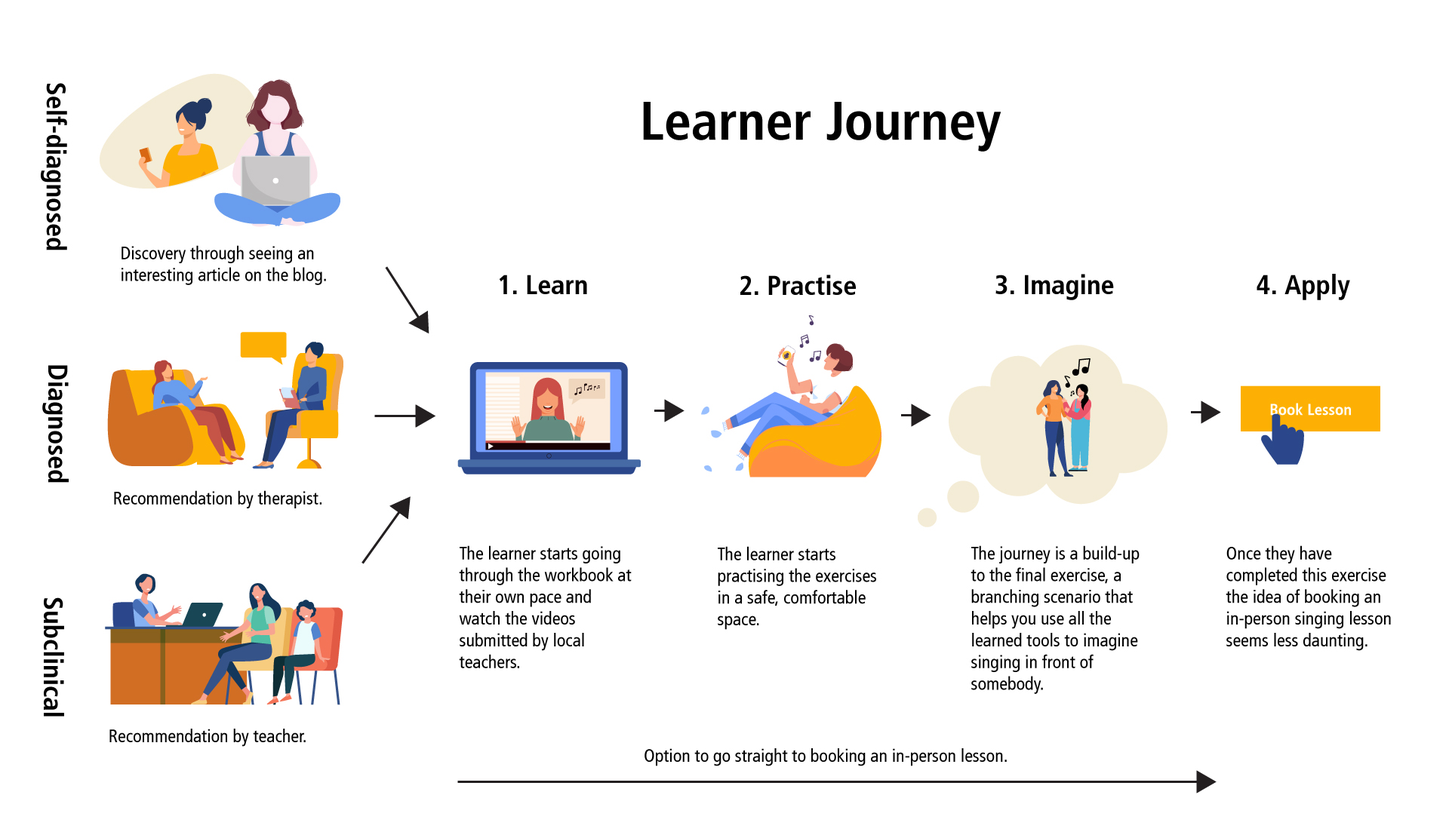
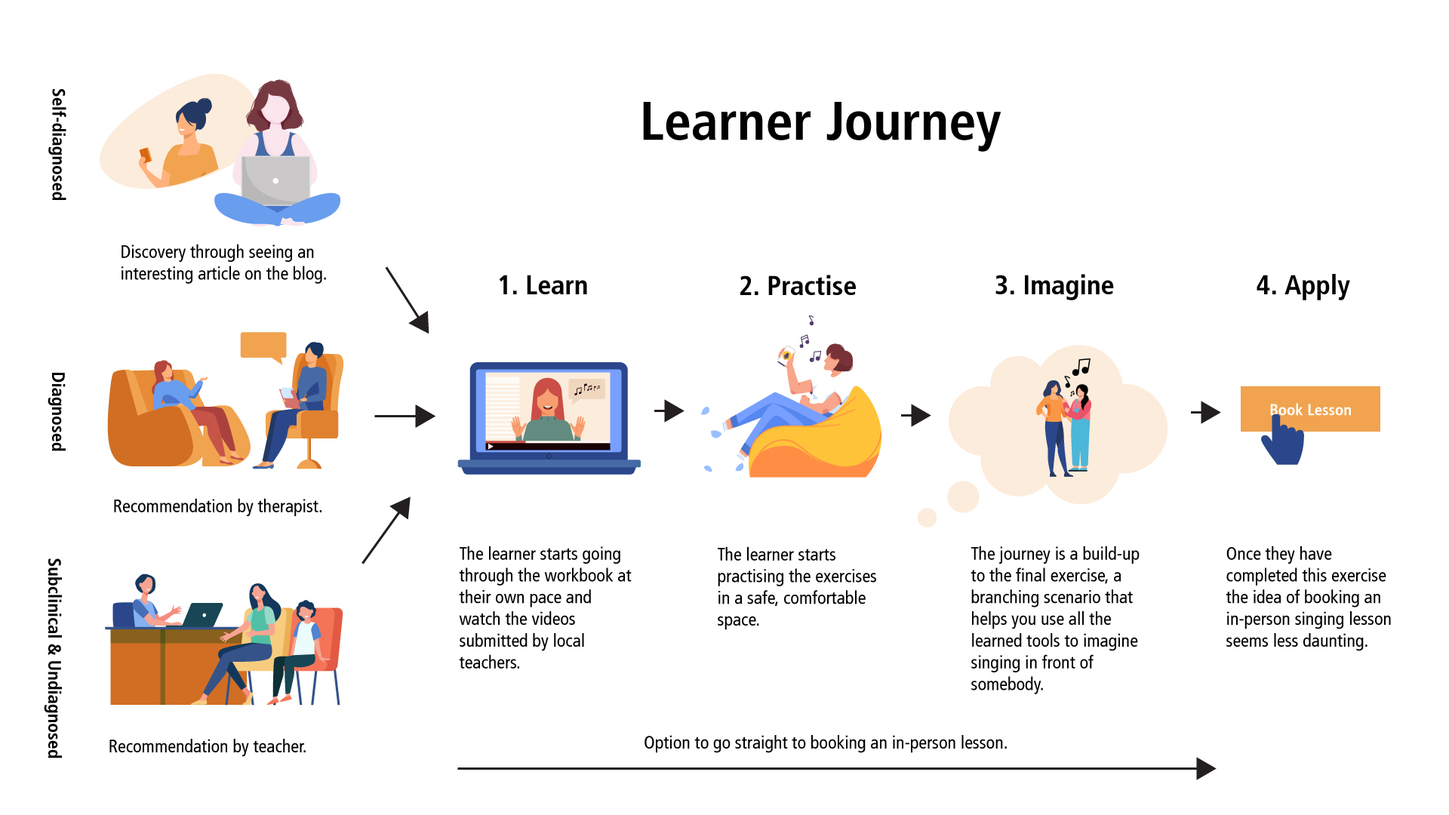
Copy
Update copy for mental health case study.

diff --git a/mental-health-lx.html b/mental-health-lx.html
@@ -61,7 +61,7 @@
 <body>
   <div class="container-fluid row g-0">
 
-    <div class="col-lg-6"> <img src="images/title-image.jpg" class="w-100 responsive-image pt-4" /></div>
+    <div class="col-lg-6"> <img src="images/singing-title-image.jpg" class="w-100 responsive-image pt-4" /></div>
     <div class="col-lg-6 my-auto">
       <h1 class="largefont text-center mx-4 pt-5 px-3">MENTAL HEALTH LX: DESIGNING A SINGING PLATFORM FOR PEOPLE WITH SOCIAL ANXIETY</h1>
     </div>
@@ -73,17 +73,17 @@
 
   <div class="col-lg-6 container-fluid mx-auto mt-lg-5 pt-lg-5 px-4 px-lg-0">
     <h3 class="mt-lg-5">Whether singing could be a therapeutic activity for individuals suffering from social anxiety was on my mind for some time. 
-        So in 2022, I made it the focus of an independent study project I completed as part of a User Centred Design course at Red & Yellow Creative School of Business.
+        So in 2022, I made it the focus of an independent study project I completed as part of a user-centred design course at Red & Yellow Creative School of Business.
     </h3>
-    To find out what studies have been conducted on the topic, the initial research phase consisted of baseline research and the second phase consisted of gathering qualitative insights from interviews and field research. First I tried to determine whether singing could help to reduce social anxiety, and what treatments exist for social anxiety and how they might relate to the process of learning to sing. 
+    To find out what studies have been conducted on the topic, I started with baseline research and then gathered qualitative insights from interviews and field research. First I tried to determine whether singing could help to reduce social anxiety, as well as what treatments exist for social anxiety and how they might relate to the process of learning to sing. 
     Then I looked into how my findings could be translated into an online format.
   </div>
 
   <div class="mx-auto py-5 g-lg-5 px-lg-5 mt-lg-5 row px-3">
     <div class="col-lg-6 p-lg-4">
       <h2>ROLE AND SCOPE</h2>
-      This was an individual project spanning from February to November 2022, completed in my own time alongside the full-time User Centred Design programme. 
-      Based on rigorous UX research, ideation processes and user testing, the expected end result was a high-fidelity interactive prototype designed through an iterative process. 
+      This was an individual project spanning from February to November 2022, completed in my own time alongside the full-time user-centred design programme. 
+      Based on rigorous UX research, ideation processes and user testing, the end result was a high-fidelity interactive prototype designed through an iterative process. 
       <br><br>
     </div>
     <div class="col-lg-4 offset-lg-2 my-auto p-lg-4">
@@ -105,8 +105,8 @@
   <div class="col-lg-6 p-lg-5 p-4 my-auto text-start">
     <h2>FIRSTLY, WHAT IS SOCIAL ANXIETY?</h2>
  Contrary to many people’s first impression, it is not simply shyness, introversion or a choice not to interact. 
-    It is a debilitating mental disorder characterised by an excessive fear of judgement, which results in masking one’s true self to others. According to the US-based National Social Anxiety Center, 
-    negative self-evaluation, maladaptive perfectionism and catastrophising thought patterns cause individuals with social anxiety to either avoid social situations completely or endure them through engaging in safety behaviours – such as avoiding eye contact, over-preparing conversations or drinking alcohol. Normal situations which are everyday for most people – such as asking your boss for leave, giving a class presentation or eating in public – feel like a performance to a harshly critical audience. 
+    It is a debilitating mental disorder characterised by an excessive fear of judgement that results in a masking of one’s true self to others. According to the US-based National Social Anxiety Center, 
+    negative self-evaluation, maladaptive perfectionism and catastrophising thought patterns cause individuals with social anxiety to either avoid social situations completely or endure them through engaging in safety behaviours – such as avoiding eye contact, over-preparing conversations or drinking alcohol. Normal situations which are everyday for most people – such as asking your boss for leave, giving a class presentation or eating in public – feel like performing in front of a highly critical audience. 
     These fears manifest physically in the form of sweating, blushing, trembling, heart racing or a complete inability to speak. 
   </div>
 </div>
@@ -123,14 +123,14 @@
         – such as being laughed at during a presentation, for instance. The trauma could range from small to big but what’s important is that, through avoidance, people with social anxiety never learn that social situations aren’t as terrifying as they think they are, leaving a lot of room for catastrophising and rumination.
         <br><br>
         <h2>AVAILABLE TREATMENTS</h2>
-        Exposure therapy, a form of cognitive behavioural therapy, is considered the most effective evidence-based treatment for social anxiety. It consists of identifying a fear hierarchy, and facing these fears, step-by-step, starting with the most approachable one. Before tackling the challenge head-on, it is useful to imagine the situation first and identify strategies for dealing with it. Replacing negative thought patterns with healthier ones, and finding realistic ways of dealing with a worst possible outcome is important. 
+        Exposure therapy, a form of cognitive behavioural therapy, is considered the most effective evidence-based treatment for social anxiety. It consists of identifying a fear hierarchy, and facing these fears, step-by-step, starting with the most managable one. Before tackling the challenge head-on, it is useful to imagine the situation first and identify strategies for dealing with it. Replacing negative thought patterns with healthier ones, and finding realistic ways of dealing with a worst possible outcome is important. 
 <br><br>
 If the challenge is to ask a stranger on the street for directions, the initial fear might express as: “Everyone is going to think I’m weird if I stumble over words.” This could be replaced with a more specific, realistic one, such as “The person I’m asking for directions might think I’m not well-spoken.” Then you would figure out how you could cope with the realistic worst-case outcome, and ask yourself if it would really be that bad or likely. Bit by bit, the more you face your fears and deal with them in a healthy manner, without safety behaviours, anxiety reduces over time. 
 <br><br>
-Although some human contact is important, studies have found that self-help for social anxiety is successful – at the very least it’s better than not receiving any help at all. A paper exploring design considerations for the Challenger App, mentions how learning about tools and coping strategies on your own and engaging in self-administered exposures has been found to reduce social anxiety.
+Although some human contact is important, studies have found that self-help for social anxiety is successful – at the very least it’s better than not receiving any help at all. For instance, a paper exploring design considerations for <i>The Challenger App</i> mentions how learning about tools and coping strategies on your own and engaging in self-administered exposures has been found to reduce social anxiety.
 <br><br>
 <h2>GETTING HELP</h2>
-Although social anxiety is highly treatable, around 80% to 95% of individuals suffering from SAD do not seek treatment and the average time until people seek treatment is 16 years. Beyond lack of knowledge about treatments and difficulties in accessing care, one of the main reasons is the nature of the disorder: individuals with social anxiety worry about what others might think if they are receiving help.
+According to the National Anxiety Center, social anxiety is highly treatable, but around 80% to 95% of individuals suffering from SAD do not seek treatment and the average time until people seek treatment is 16 years. Beyond lack of knowledge about treatments and difficulties in accessing care, one of the main reasons is the nature of the disorder: worrying what others might think if you are receiving help.
 <br><br>
 <h2>THE PROBLEM</h2>
 After my initial deep-dive into existing research on social anxiety, I identified the problem as following:
@@ -138,7 +138,7 @@ After my initial deep-dive into existing research on social anxiety, I identifie
 <h3>Individuals who suffer from social anxiety are afraid to reveal their true selves to others because of excessive fear of judgement. This results in avoidant behaviour and a difficulty to connect to others meaningfully. Despite not being able to function adequately, most individuals with social anxiety do not receive adequate help.</h3>
 <br><br>
 <h2>LEARNING TO SING</h2>
-Once I had a deeper understanding of what social anxiety is, I looked into the process of learning to sing, and its potential for self-exploration and acceptance. From doing some baseline research, as well as some qualitative research through speaking to three voice teachers, a music therapist, the head of psychiatry at Stellenbosch University, as well as Denise, whose choir experience helped her manage social anxiety in high school, the insights can be summarised as following:
+Once I had a better understanding of what social anxiety is, I looked into the process of learning to sing, and its potential for self-exploration and self-acceptance. From doing some baseline research, as well as some qualitative research through speaking to three voice teachers, a music therapist, the head of psychiatry at Stellenbosch University, as well as Denise, whose choir experience helped her manage social anxiety in high school, the insights can be summarised as following:
 <ol>
     <li>Singing has positive effects on self-esteem and social inclusion</li>
     <li>Voice work can teach you to become okay with taking risks and making mistakes</li>
@@ -149,12 +149,13 @@ Once I had a deeper understanding of what social anxiety is, I looked into the p
     <li>For it to be effective, the process should be modelled on graded exposure therapy</li>
     <li>Learning to sing is a process that doesn’t happen overnight, it’s unique to each individual and requires some willingness and dedication</li>
 </ol>
-One of the main themes that came up was that, if done in the right environment, without over-focusing on pitch or singing “perfectly”, and instead encouraging playfulness, improvisation and acceptance, singing has potential for overcoming the excessive fear of judgement that people with social anxiety suffer from. Here are some quotes from the interviews that illustrate this idea well.
+One of the main themes that came up was that, if done in the right environment, without over-focusing on pitch or singing “perfectly”, and instead encouraging playfulness, improvisation and acceptance, singing has potential for overcoming the excessive fear of judgement that people with social anxiety suffer from. Here are some quotes from the interviews I conducted that convey this idea.
     </div>
      <br><br>
         <div class="container-fluid col-lg-6 mx-auto px-4 px-lg-0">
           <div id="carouselExampleDark" class="carousel carousel-dark slide" data-bs-interval="0">
-            <div class="carousel-indicators p-5">
+            <div class="carousel-indicators p-5 mt-5">
+           
               <button type="button" data-bs-target="#carouselExampleDark" data-bs-slide-to="0" class="active" aria-current="true" aria-label="Slide 1"></button>
               <button type="button" data-bs-target="#carouselExampleDark" data-bs-slide-to="1" aria-label="Slide 2"></button>
               <button type="button" data-bs-target="#carouselExampleDark" data-bs-slide-to="2" aria-label="Slide 3"></button>
@@ -162,6 +163,7 @@ One of the main themes that came up was that, if done in the right environment, 
               <button type="button" data-bs-target="#carouselExampleDark" data-bs-slide-to="4" aria-label="Slide 5"></button>
               <button type="button" data-bs-target="#carouselExampleDark" data-bs-slide-to="5" aria-label="Slide 6"></button>
               <button type="button" data-bs-target="#carouselExampleDark" data-bs-slide-to="6" aria-label="Slide 7"></button>
+           
             </div>
             <div class="carousel-inner">
               <div class="carousel-item active">
@@ -185,7 +187,9 @@ One of the main themes that came up was that, if done in the right environment, 
               <div class="carousel-item">
                 <img src="images/quote-7.jpg" class="d-block w-100" alt="...">
               </div>
+
             </div>
+            <br><br>
             <button class="carousel-control-prev" type="button" data-bs-target="#carouselExampleDark" data-bs-slide="prev">
               <span class="carousel-control-prev-icon" aria-hidden="true"></span>
               <span class="visually-hidden">Previous</span>
@@ -198,17 +202,18 @@ One of the main themes that came up was that, if done in the right environment, 
 </div>
 <br>
 <br>
-  <div class="col-lg-10 mx-auto">
-    <img src="images/benefits-of-singing.jpg" class="responsive-image" />
+  <div class="col-lg-10 mx-auto text-center">
+    <img src="images/benefits-of-singing.jpg" class="responsive-image" /><br><br>
+    <small><i>An infographic I created to show insights from qualitative research</i></small>
   </div>
   <br><br>
 <div class="container-fluid col-lg-6 mx-auto px-4 px-lg-0">
     <h2>CHALLENGES</h2>
-    It was now clear to me that there was potential for singing to help with combatting social anxiety, but I still didn’t know how this could be implemented as a digital solution. Influenced by my background in e-learning design, the idea of an online course with CBT-inspired singing exercises was swimming around in my head. But because I’m not a singing or psychology expert, I wasn’t sure how I would be able to present this information in an authentic way. I was thinking about copyright issues, and also how to involve all the people I had gathered this information from. How could it benefit them as well as people with social anxiety?
+    It was now clear to me that there was potential for singing to help combat social anxiety, but I still didn’t know how this could be implemented as a digital solution. Influenced by my background in e-learning design, the idea of an online course with CBT-inspired singing exercises was swimming around in my head. But because I’m not a singing or mental health expert, I wasn’t sure how I would be able to present this information in an authentic way. I was thinking about copyright issues, and also how to involve all the people I had gathered this information from. How could it benefit them as well as people with social anxiety?
     <br><br>
-    Also, when talking to voice teachers, it became very obvious that – although they had all done some sort of digital teaching during Covid – this was not ideal. Realistic in-person feedback is essential for someone who’s learning to sing, especially if you have a tendency for catastrophic thinking. This way not only unhealthy voice production can be corrected, but the process can also be tailored through comforting guidance. At the same time, Denise told me that she believes that teaching singing digitally has benefits because “being in the physical presence of someone can be a lot” so starting to sing online would be beneficial for people struggling with social anxiety.
+    Also, when talking to voice teachers, it became very obvious that – although they had all done some sort of digital teaching during lockdown – this was not ideal. Realistic in-person feedback is essential for someone who’s learning to sing, especially if you have a tendency for catastrophic thinking. This way not only unhealthy voice production can be corrected, but the process can also be tailored through comforting guidance. At the same time, Denise told me that she believes that teaching singing digitally has benefits because “being in the physical presence of someone can be a lot” so starting to sing online would be beneficial for people struggling with social anxiety.
     <br><br>
-    To spark some more ideas, I decided to do some field research. I wanted to understand what a voice lesson with a specific focus on self-acceptance actually felt like. So in Germany, I took an experimental voice lesson with Jens Thoben, who I had interviewed previously, and in Cape Town, Catharine Hill, who has taught students with social anxiety purely for therapeutic purposes, agreed to give me a lesson. My initial idea was to do an observation, but I realised this would have been problematic due to a therapeutic singing lesson’s intimate nature.
+    To spark some more ideas, I decided to do some field research. I wanted to understand what a voice lesson with a specific focus on self-acceptance actually felt like. So in Germany, I took an experimental voice lesson with Jens Thoben, who I had interviewed previously, and in Cape Town, Catharine Hill, who has taught students with social anxiety purely for therapeutic purposes, agreed to give me a lesson. My initial idea was to do an observation, but I realised this would have been problematic due to the intimate nature of a therapeutic singing lesson.
     <br><br>
     The main insight from these lessons was that just having theoretical information is not enough. Repetition of interactive, practical exercises and taking on a role to distract your mind – such as “pretend you're an opera singer” – are important for unlearning nervous responses. But it was a random comment by Catharine that actually inspired the main idea for a solution. She mentioned how it would be really beneficial for people to know that singing lessons are not just for singers with prior experience because this would get vocal teachers more work. I now realised that the solution should be about giving people this empowering information – that singing has potential as a therapeutic activity for social anxiety – and then connect those who are interested to professionals who work in this context.
     <br><br>
@@ -220,9 +225,11 @@ One of the main themes that came up was that, if done in the right environment, 
   <div class="container-fluid col-lg-6 mx-auto pt-lg-5 mt-lg-5 px-4 px-lg-0">
     <br><br>
     <h2>THE SOLUTION</h2>
-    A platform for individuals who experience social anxiety to learn about coping strategies in the form of simple self-administered voice exercises, listening exercises and cognitive behavioural therapy-inspired exercises that build up to a final exposure: booking an in-person voice or music therapy session.
+    The solution I settled on: a platform for individuals who experience social anxiety to learn about coping strategies in the form of simple self-administered voice exercises, listening exercises and cognitive behavioural therapy-inspired exercises. These would build up to a final exposure: booking an in-person voice or music therapy session.
     <br><br>
-    These exercises would be contributed in video-format by voice teachers and music therapists. This would allow users to get an insight into how they work, and make an informed decision about who they feel most comfortable with. After learning about social anxiety and how exposure therapy in combination with cognitive restructuring can help you overcome it, and practising at home in your safe space, you apply your knowledge in an interactive branching scenario prompting you to imagine singing in front of someone. Once this is completed, you are presented with a directory of voice teachers and music therapists in your area, with an option to book a lesson if you are ready.
+    These exercises would be contributed in video-format by voice teachers and music therapists. Learners would get an insight into how they work, and be able to make an informed decision about who they feel most comfortable with. After learning about exposure therapy, and practising at home in a safe space, learners apply their knowledge in an interactive branching scenario prompting them to imagine singing in front of someone. Once this is completed, they are presented with a directory of voice teachers and music therapists in their area, with an option to book a lesson – if ready.
+    <br><br>
+    To sustain the platform, a percentage could be taken for each booking that is made through the site.
 
   </div>
   <br>
@@ -233,14 +240,14 @@ One of the main themes that came up was that, if done in the right environment, 
   <br><br>
   <div class="container-fluid col-lg-6 mx-auto px-4 px-lg-0">
     <h2>COMPETITIVE RESEARCH</h2>
-    An online search did not reveal many platforms that specifically speak to combatting social anxiety through singing. One platform that comes closest is Awaken your radiant voice. It offers a 7-week online course covering subjects such as ‘Learn to love and trust your voice’, ‘Sing more and find joy and freedom’ and ‘Social anxiety and managing the nervous system’. However, it costs $497, which would exclude a lot of people who need help. 
+    An online search did not reveal many platforms that specifically speak to combatting social anxiety through singing. One platform that comes closest is <i>Awaken your radiant voice</i>. It offers a 7-week online course covering subjects such as ‘Learn to love and trust your voice’, ‘Sing more and find joy and freedom’ and ‘Social anxiety and managing the nervous system’. However it costs $497, which would exclude a lot of people who need help. 
     <br><br>
-    No other singing apps focused on social anxiety specifically, but there were a few that were promising because they included the possibility of non-singers learning how to sing. Singdaptive is interesting because it offers a personalised video exchange with vocal teachers, making the experience interactive and tailored to one’s specific needs. In terms of the concept, tschzant is worth mentioning because of its focus on getting non-singers to sing for mental health reasons. It is also linked to larger community events such as digital choirs but the app's learning approach seems to be focused on ‘singing correctly’, which could be a stress factor if it triggers perfectionism.
+    No other singing apps focused on social anxiety specifically, but there were a few that were promising because they included the possibility of non-singers learning how to sing. <i>Singdaptive</i> is interesting because it offers a personalised video exchange with vocal teachers, making the experience interactive and tailored to one’s specific needs. In terms of the concept, <i>tschzant</i> is worth mentioning because of its focus on getting non-singers to sing for mental health reasons. It is also linked to larger community events such as digital choirs but the app's learning approach seems to be focused on ‘singing correctly’, which could be a stress factor if it triggers perfectionism.
     <br><br>
     <h2>THE TARGET MARKET</h2>
     Because avoiding talking to others is the nature of social anxiety, it was difficult to research the target market. I tried reaching out in social anxiety community networks asking for further interviews and survey participation. But to no avail, perhaps also because I had no budget to provide remuneration.
     <br><br>
-    I then decided to base my personas on information I had gathered through looking at social anxiety blogs, comments in community forums, and real-life stories I read about in the book <i>How to Be Yourself: Quiet Your Inner Critic and Rise Above Social Anxiety by Ellen Hendriksen</i>. It was also important to not base the target market on age because – although onset is usually in childhood or adolescence – many don’t seek treatment, so the information would be useful throughout different stages of life. The main uniting factor for the target market is the fear of judgement and I decided on three segments: undiagnosed and subclinical, self-diagnosed and diagnosed. Subclinical refers to people who suffer from the symptoms but may not qualify as having a disorder yet.
+    I then decided to base my personas on information I had gathered through looking at social anxiety blogs, comments in community forums, and real-life stories I read about in the book <i>How to Be Yourself: Quiet Your Inner Critic and Rise Above Social Anxiety</i> by Ellen Hendriksen. It was also important to not base the target market on age because – although onset is usually in childhood or adolescence – many don’t seek treatment, so the information would be useful throughout different stages of life. The main uniting factor for the target market is the fear of judgement and I decided on three segments: undiagnosed and subclinical, self-diagnosed and diagnosed. Subclinical refers to people who suffer from the symptoms but may not qualify as having a disorder yet.
 
 </div>
        
@@ -262,7 +269,7 @@ One of the main themes that came up was that, if done in the right environment, 
     <div class="col-lg-4"><div class="card mx-auto" style="width: 18rem;">
         <div class="card-body">
           <h5 class="card-title">Diagnosed</h5>
-          <p class="card-text">Is receiving treatment but is interested in further at-home practice and connection beyond the interaction with the therapist.</p>
+          <p class="card-text">Is receiving treatment but is interested in further at-home practice and connection beyond interacting with a therapist.</p>
         </div>
       </div></div></div>
     
@@ -291,7 +298,9 @@ One of the main themes that came up was that, if done in the right environment, 
             <div class="carousel-caption d-none d-md-block">
             </div>
           </div>
+         
         </div>
+        <br><br>
         <button class="carousel-control-prev" type="button" data-bs-target="#personaCarousel" data-bs-slide="prev">
           <span class="carousel-control-prev-icon" aria-hidden="true"></span>
           <span class="visually-hidden">Previous</span>
@@ -306,7 +315,7 @@ One of the main themes that came up was that, if done in the right environment, 
       <br><br>
       <div class="container-fluid col-lg-6 mx-auto px-4 px-lg-0">
         <h2>THEMATIC ANALYSIS</h2>
-        To figure out what the content surrounding the video exercises would be, and how to structure each section, I compared the typical process of learning to sing with the typical exposure therapy process, and conducted a thematic analysis of all the interview material. 
+        To figure out what the content surrounding the video exercises would be and how to structure each section, I compared the typical process of learning to sing with the typical exposure therapy process, and conducted a thematic analysis of all the interview material. 
       </div>
 
       <br><br>
@@ -315,7 +324,7 @@ One of the main themes that came up was that, if done in the right environment, 
       </div>
       <br><br>
       <div class="container-fluid col-lg-6 mx-auto px-4 px-lg-0">
-      Although they changed slightly throughout the process, the final section headings would be:
+      Although they changed slightly throughout the process, the final section headings based on the themes that came up in the interviews would be:
 <ol>
       <li>Social anxiety and the voice</li>
       <li>Techniques to relax the body</li>
@@ -383,6 +392,7 @@ Most of the navigation labels, such as ‘Blog’ or ‘Forum’, were self-expl
               </div>
             </div>
           </div>
+          <br><br>
           <button class="carousel-control-prev" type="button" data-bs-target="#treeCarousel" data-bs-slide="prev">
             <span class="carousel-control-prev-icon" aria-hidden="true"></span>
             <span class="visually-hidden">Previous</span>
@@ -393,8 +403,8 @@ Most of the navigation labels, such as ‘Blog’ or ‘Forum’, were self-expl
           </button>
         </div>       
   <br>
-  For the first question, 3 out of 6 participants got it right, meaning only 50% knew where to find the main items of the website. 
-  4 out of 6 answered the second question correctly. So I reconsidered the wording ‘Guide’ and ‘Directory’.
+  For the first question, three out of six participants got it right, meaning only 50% knew where to find the main items of the website. 
+  Four out of six answered the second question correctly. So I reconsidered the wording ‘Guide’ and ‘Directory’.
   <br><br>
   <h2>INFORMATION ARCHITECTURE</h2>    
   For the final information architecture, ‘Guide’ became ‘Interactive Workbook’ and ‘Directory’  became ‘Teachers and Music Therapists’. Because the main process is not called a course anymore, I also changed the wording of ‘Lessons’ to ‘Steps’.
@@ -431,20 +441,21 @@ Most of the navigation labels, such as ‘Blog’ or ‘Forum’, were self-expl
     When writing the copy, I started off describing what social anxiety is and called to mind a problem of how it is dealt with in society: it is not introversion or a choice to be reclusive, which obstructs access to help. Through inserting some personal experience, I hoped that this will further activate the content, making it relatable to the learner. 
     <br><br>
     I included sliders for demonstration activities, and text inputs for application activities, such as identifying your fears. I also included icons with a different colour background to signal different types of interaction.
+    The branching scenario prompting users to imagine singing in front of a voice teacher is a preparation for the final integration activity, to actually attend the in-person singing lesson.
     <br><br>
-    One of the challenges was to figure out how to recreate learning interactions using Figma. I had experience in writing and designing branching scenarios for pre-coded templates, such as H5P or Articulate Rise, but I had never programmed the interactivity myself. It turned out to be easy enough though using Figma’s prototyping options. The branching scenario prompting users to imagine singing in front of a voice teacher can be seen as a preparation to the final integration activity, to actually attend the in-person singing lesson.
+    One of the challenges was to figure out how to recreate learning interactions using Figma. I had experience in writing and designing branching scenarios for pre-coded templates, such as H5P or Articulate Rise, but I had never programmed the interactivity myself. It turned out to be easy enough though using Figma’s prototyping options. 
     <br><br>
     <h2>USABILITY TESTING</h2>
-    Once the content of the high-fidelity prototype was largely in place (I had written the copy, created infographics, sourced some images, inserted screenshots as examples of the videos, and the branching scenario was functional), I conducted some usability testing with three participants. The goal was to figure out what journey they would take on the platform and if the last step, to book a voice or music therapy session, seemed natural to them. All participants had completed an online course before, meaning that they would be familiar with popular e-learning conventions.
+    Once the content of the high-fidelity prototype was largely in place (I had written the copy, created infographics, sourced some images, inserted screenshots as examples of the videos, and the branching scenario was functional), I conducted some usability testing with three participants. The goal was to figure out what journey they would take on the platform and if the last step, to book a voice or music therapy session, seemed natural to them. All participants had completed an online course before, meaning that they would be familiar with established e-learning conventions.
     <br><br>
-    I asked them to complete the following tasks and made it clear that they don’t have to read everything within the workbook, because normally this might be a week or day-long process.
+    I asked them to complete the following tasks and made it clear that they don’t have to read everything within the workbook, because normally this would be a longer process with breaks in-between.
     <ol>
         <li>Have a quick look at the homepage. What do you think it’s about?</li>
         <li>Now you can have a bit more of a look, scroll around and then tell me what you think the main purpose is.</li>
         <li>Follow the journey you’re most interested in.</li>
-        <li>[When they get to the last screen] What would the next natural step be for you?</li>
+        <li>[When they get to the last screen] What would you want to do next?</li>
     </ol>
-    Most of the participants understood what the site was about after just looking at it for a few seconds, although for one participant it wasn’t immediately clear that it was about singing specifically. Connecting art or music teachers to students was mentioned, and I realised this may have been because of the navigation label, ‘Teachers and Music Therapists’. I changed it to ‘Voice Teachers & Music Therapists’ to make it more specific. 
+    Most of the participants understood what the site was about after just looking at it for a few seconds, although for one participant it wasn’t immediately clear that it was about singing specifically. Connecting art or music teachers to students was mentioned, and  – after asking a follow-up question – I realised this was because of the navigation label, ‘Teachers & Music Therapists’. I changed it to ‘Voice Teachers & Music Therapists’ to make it more specific. 
     <br><br>
     Further improvements that I made based on the usability testing:
   </div>
@@ -456,7 +467,7 @@ Most of the navigation labels, such as ‘Blog’ or ‘Forum’, were self-expl
     <h2>TOUCHPOINTS</h2>
     I decided on <i>Creating sounds from inner space – an interactive workbook</i> as a name for the workbook and one of the main ways of finding it would be through relatable articles on the blog. 
     <br><br><b>MIA's JOURNEY</b><br>
-    Mia, the subclinical and undiagnosed persona, might find it because she is scrolling through social media hoping for answers. She wants to understand why she feels so nervous around people. She knows how she feels but doesn’t have the right language to describe her symptoms yet. Seeing the title of a blog article using words that describe how she feels piques her interest. Once she clicks the article, she reads an uplifting story she can relate to, encouraging her to have a look around the website. In the forum, she sees people talking about what she is going through. Surprised but relieved that she is not alone, she decides to go through the workbook. 
+    Mia, the subclinical and undiagnosed persona, might find the platform because she is scrolling through social media hoping for answers. She wants to understand why she gets so nervous around people. Although she knows how she feels, she doesn’t have the right language to describe her symptoms yet. So seeing the title of a blog article using words that describe what she's struggling with grabs her attention. Once she clicks the article, she reads an uplifting story she can relate to, encouraging her to have a look around the website. In the forum, she sees people talking about what she is going through. Surprised but relieved that she is not alone, she decides to go through the workbook. 
     <br><br>
   
   </div>
@@ -477,9 +488,8 @@ Most of the navigation labels, such as ‘Blog’ or ‘Forum’, were self-expl
     Further ways of reaching the workbook could be Social Anxiety Support Forums on social media, referrals by therapists as add-on activities and recommendations at schools. Another promising channel could be social prescribing – a concept which has been rolled out in Ireland, the UK and the Netherlands. Health professionals, such as GPs, prescribe non-medical activities for patients suffering from mental health issues such as isolation, depression and anxiety.
     <br><br>
     <h2>THE WORKBOOK</h2>
-    [insert GIF]
     The full interactive prototype can be viewed <a class="pointer links" href="https://www.figma.com/proto/bvXwo6fDuNa4ISGSV2Mgr0/independent-study---high-fidelty?node-id=1%3A2&scaling=min-zoom&page-id=0%3A1&starting-point-node-id=1%3A2" target="_blank"><b>here</b></a>. 
-    Below are some screenshots with examples of the exercises.
+    Below are some screenshots with examples of exercises.
     <br><br>
     <b>EXERCISES TO PRACTISE AT HOME</b>
     <br><br>
@@ -499,7 +509,7 @@ Most of the navigation labels, such as ‘Blog’ or ‘Forum’, were self-expl
   <br><br>
   <div class="container-fluid col-lg-6 mx-auto px-4 px-lg-0">
     <b>BRANCHING SCENARIO</b><br>
-    The preparation for the final exposure is a branching scenario that prompts you to imagine you are taking part in a singing lesson, 
+    The preparation for the final exposure is a branching scenario. It prompts you to imagine being in a singing lesson, 
     and remember the cognitive restructuring questions to disarm your anxious thoughts. Once you have completed it, you are shown a directory of local professionals you can book a lesson with.
   </div><br><br>
   <div class="col-lg-10 mx-auto">
@@ -518,18 +528,18 @@ Most of the navigation labels, such as ‘Blog’ or ‘Forum’, were self-expl
   <br><br>
   <div class="container-fluid col-lg-6 mx-auto px-4 px-lg-0">
   <h2>NEXT STEPS</h2>
-  I would like to get further feedback on the learner journey from voice teachers, but also from people who suffer from social anxiety. Because going through the workbook is an intimate and longer process, I would like to give them the opportunity to do this in their own time, and then get their feedback afterwards. The main objective would be to see how learners feel after they have engaged with the content more in-depth.
+  I would like to get further feedback on the learner journey from voice teachers, but also from people who suffer from social anxiety. Because going through the workbook is an intimate and longer process, I would like to give them the opportunity to do this in their own time, and ask them some questions afterwards. The main objective would be to see how learners feel after they have engaged with the content more in-depth.
   <br><br>
-  I also plan to reach out to more voice teachers and music therapists and see if they would be interested in submitting exercises, and look into producing quality videos with decent audio.
+  I also plan to reach out to more voice teachers and music therapists to see if they would be interested in submitting exercises, and look into producing quality videos with decent audio.
   <br><br>
-  Lastly, I intend to apply my web development skills and code the front end of the platform. 
+  Lastly, I intend to use my web development skills to code the front end of the platform. 
 <br><br>
-<h2>HOW IT WILL PROVIDE VALUE</h2>
+<h2>THE VALUE PROPOSITION</h2>
 Combining the need for access to therapy, a need for an inclusive social anxiety platform, and a need to expand the customer base for voice teachers, a singing for social anxiety platform could be a constructive way of dealing with a societal problem as well as an economic problem without exploitation. Although a percentage will be taken, voice teachers don’t have much to lose because they only pay once a booking is actually made, and site visitors will receive useful information, even if they don’t book a lesson.
 <br><br>
 Not only will it connect voice teachers to beginner singers interested in voice work’s therapeutic value, but it will also introduce a relatively unexplored concept to the wider public. The specific benefits of singing to overcome social anxiety often make sense to people, but have not been researched in-depth – available studies are often focused on passive music therapy for general anxiety disorders and depression.
 <br><br>
-There is much to explore when it comes to using voice work – an expression of what literally and figuratively comes straight from inside of you – to overcome intense fears of judgement associated with social anxiety, and this platform could be a stepping stone.
+There is a lot to explore when it comes to using voice work – an expression of what literally and figuratively comes straight from inside of you – to overcome intense fears of judgement associated with social anxiety, and this platform could be a stepping stone.
   </div>
   <br><br>
   <!--FOOTER-->

diff --git a/index.html b/index.html
@@ -64,7 +64,7 @@
   <div class="container-fluid" id="background">
     <div class="title-container">
       <h1 class="largefont fw-bold">Hi! I'm Christine.<br>
-        I do Web Development, <br>eLearning and UX Design.</h1>
+        I do web development, <br>e-learning and UX design.</h1>
       <a class="mx-auto d-block grow" href="#portfolio">
         <i class="bi bi-caret-down fw-bold fs-1 change-colour"></i></a>
     </div>
@@ -100,7 +100,7 @@
       </a>
       <a class="pointer" href="frontend-store.html">
         <h3>Frontend store using Vue CLI</h3>
-        <p class="mb-4">An eCommerce site with shopping cart for a fake second-hand clothing retailer. Built with the
+        <p class="mb-4">An e-commerce site with shopping cart for a fake second-hand clothing retailer. Built with the
           JavaScript
           framework Vue CLI and styled with Bootstrap.</p>
       </a>
@@ -150,8 +150,8 @@
           <div class="image"><img src="images/elearning.png" class="img-fluid"></div>
 
           <div class="info">
-            <a class="fw-bold fs-4 product-links modal-btn-2 pointer">
-              <div class="title">eLearning Design </div>
+            <a class="fs-4 product-links modal-btn-2 pointer">
+              <div class="title keeptogether">E-LEARNING <br>DESIGN </div>
              
           </div></a>
 
@@ -165,8 +165,8 @@
           <div class="image"><img src="images/ux-design-2.png" class="img-fluid"></div>
 
           <div class="info">
-            <a class="fw-bold fs-4 product-links modal-btn-3 pointer">
-              <div class="title">UX Design</div>
+            <a class="fs-4 product-links modal-btn-3 pointer">
+              <div class="title">UX DESIGN</div>
           </div></a>
 
         </div>
@@ -179,8 +179,8 @@
           <div class="image"><img src="images/frontend.png" class="img-fluid"></div>
 
           <div class="info">
-            <a class="fw-bold fs-4 product-links modal-btn-4 pointer">
-              <div class="title">Frontend Development</div>
+            <a class="fs-4 product-links modal-btn-4 pointer">
+              <div class="title">FRONTEND DEVELOPMENT</div>
           </div></a>
 
         </div>
@@ -193,8 +193,8 @@
           <div class="image"><img src="images/backend.png" class="img-fluid"></div>
 
           <div class="info">
-            <a class="fw-bold fs-4 product-links modal-btn-5 pointer">
-              <div class="title">Backend Development</div>
+            <a class="fs-4 product-links modal-btn-5 pointer">
+              <div class="title">BACKEND DEVELOPMENT</div>
           </div></a>
 
         </div>
@@ -278,8 +278,8 @@
       <div class="container white p-sm-4 mb-4">
 
         <div class="product_description mt-3 p-lg-4">
-          <h2 class="product_title mb-3 pt-4 fw-bold">ELEARNING DESIGN</h2>
-          Since mid-2020, I have been assisting an eLearning designer on a freelance
+          <h2 class="product_title mb-3 pt-4 fw-bold">E-LEARNING DESIGN</h2>
+          Since mid-2020, I have been assisting an e-learning designer on a freelance
           basis. We develop courses in Moodle based on learning material submitted by SMEs, which includes organising
           the content, creating layouts, designing infographics in Adobe Illustrator and Articulate Storyline, and
           implementing H5P learning interactions, such as branching scenarios, quizzes and hotspots. 
@@ -302,7 +302,7 @@
         
         <div class="product_description mt-3 p-lg-4">
           <h2 class="product_title mb-3 pt-4 fw-bold">UX DESIGN</h2>
-          I am currently completing an Advanced Diploma in User-Centred Design at Red & Yellow Creative School of Business. The course includes theory and practical application of user and design research methods, ideation tools such as storyboarding and experience mapping, information architecture as well as visual design methods, from SCAMPing to digital prototyping.
+          I have completed an Advanced Diploma in User-Centred Design at Red & Yellow Creative School of Business. The course includes theory and practical application of user and design research methods, ideation tools such as storyboarding and experience mapping, information architecture as well as visual design methods, from SCAMPing to digital prototyping.
           <br><br>
           Read my case study on designing a peer-led donation page <a class="fw-bold" href="a-peer-led-donation-page.html" target="_blank">here</a>.
         </div>

diff --git a/elearning.html b/elearning.html
@@ -78,7 +78,7 @@
           implementing H5P learning interactions, such as branching scenarios, quizzes and hotspots. </div>
 
 
-      </div>
+      </div> 
       <br>
       <br>
 

diff --git a/sass/css/style.css b/sass/css/style.css
@@ -33,6 +33,9 @@ h1 {
 
 h2 {
   font-size: 2rem; } */
+.keeptogether {
+    white-space: nowrap ;
+  }  
 
 .product-links :hover,
 .product-links :active,
